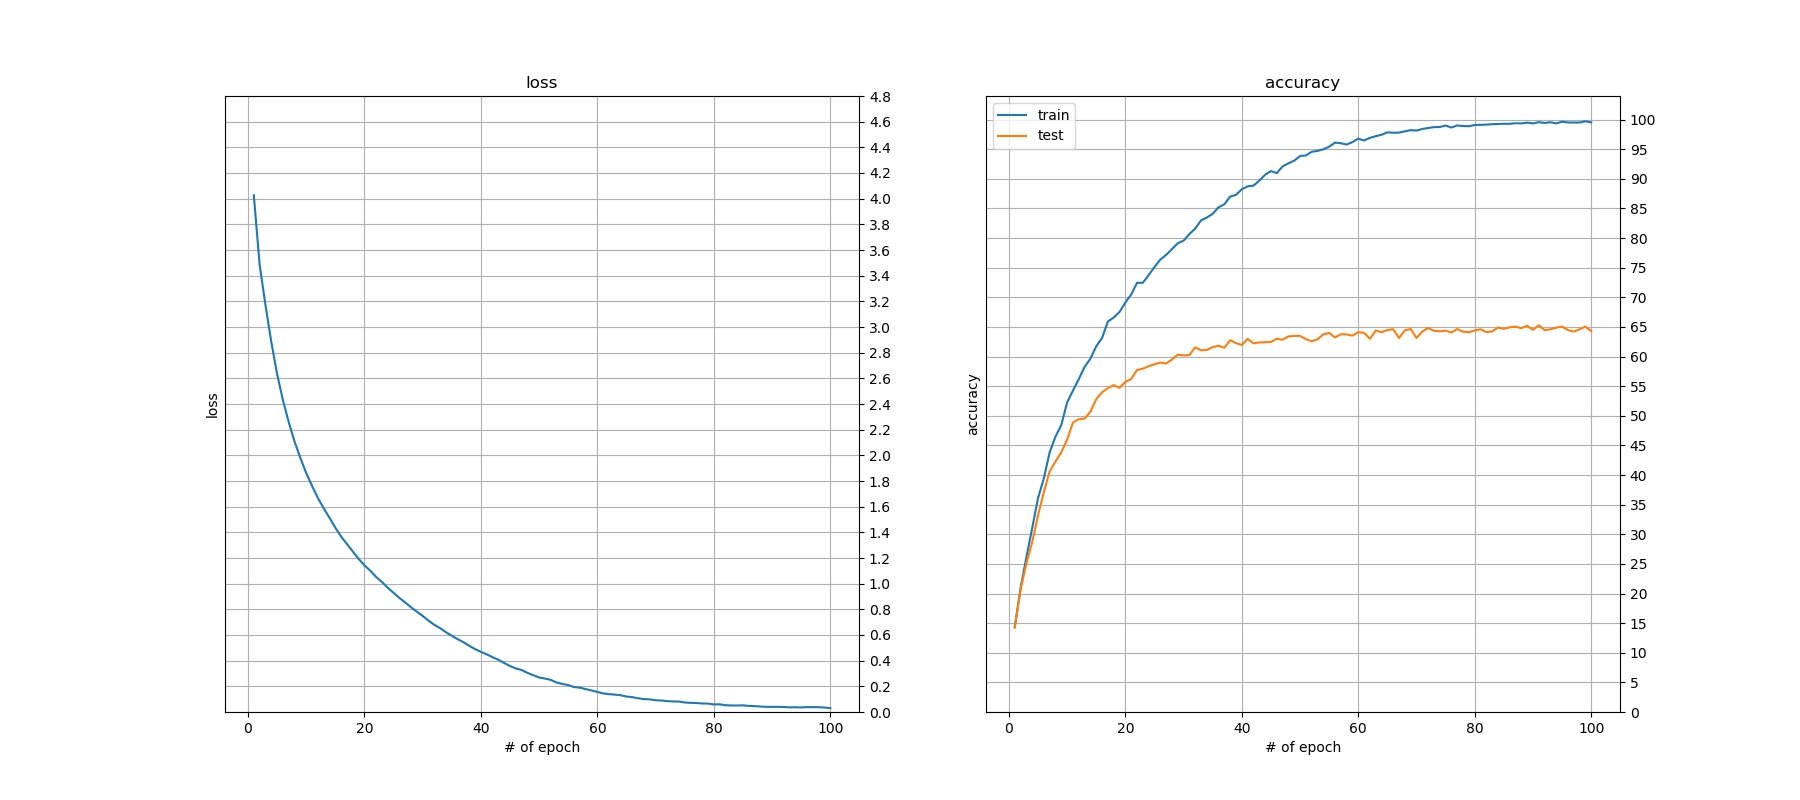
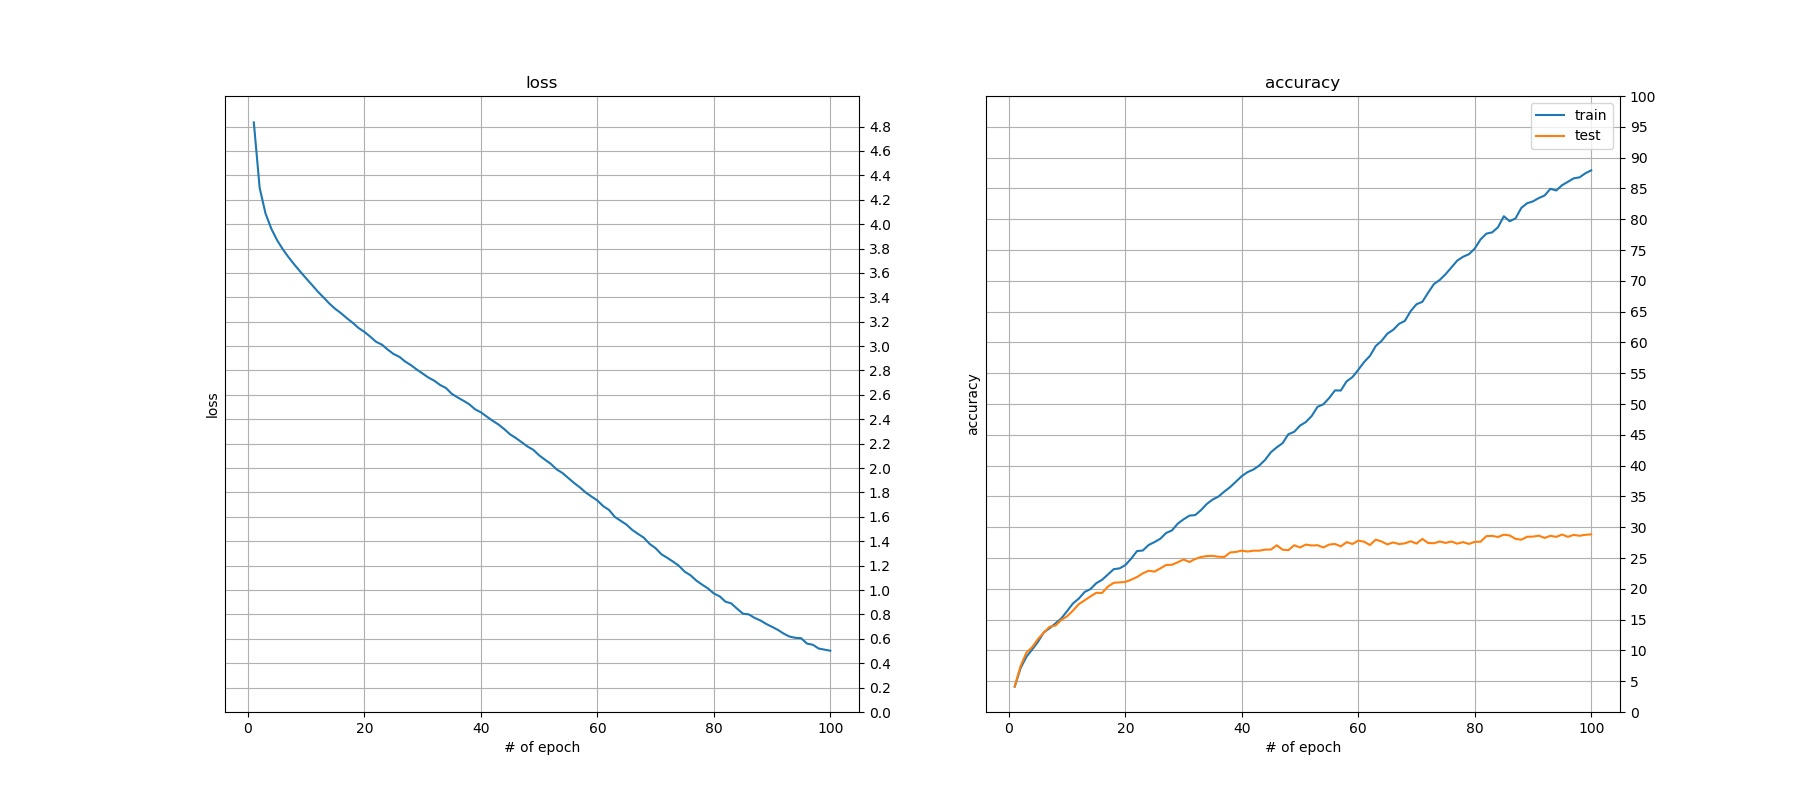
28 accuracy
using ResNet152

diff --git a/cifar_100.py b/cifar_100.py
@@ -186,7 +186,8 @@ if __name__ == "__main__":
     # showpicture()
     # exit()
 
-    net = ResNet18()
+    # net = ResNet18()
+    net = torchvision.models.resnet152(pretrained=False, progress=True)
     net = net.to(device)
 
     # load_model("D:\study\CIFAR_100\model\\25.67_76.534_1572670736.pkl")
@@ -195,4 +196,4 @@ if __name__ == "__main__":
 
     train_correctness = check_correctness(trainloader)
     test_correctness = check_correctness(testloader)
-    save_model()
+    # save_model()
